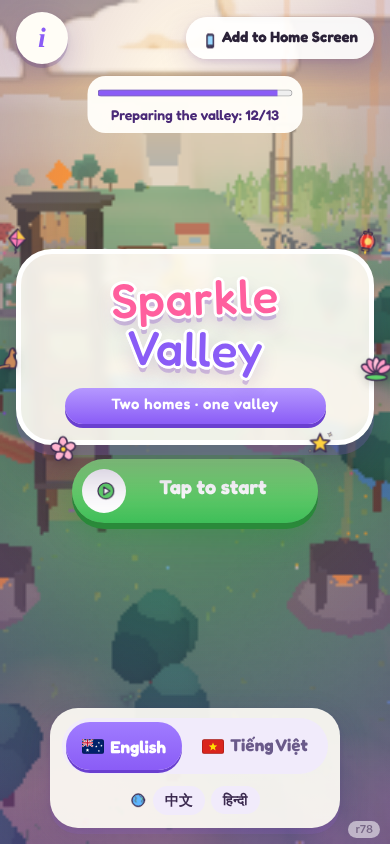
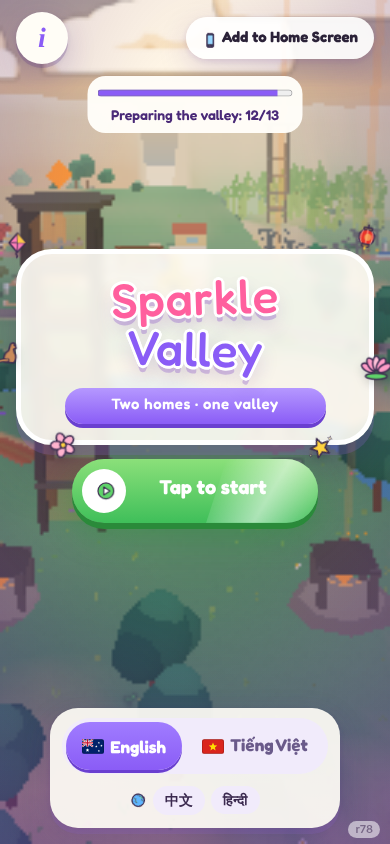
Welcome steady: the Start button shines instead of glowing (owner, 17 Oct AEDT: "Shine")
A soft band of light sweeps across the Start button every few seconds, inside its own edges, so its box never changes;
calm mode and "Reduce motion" show no shine. welcomesteady passes; after pictures retaken with the shine held halfway.

Claude-Session: https://claude.ai/code/session_01WXGnVXjDfHXQwR9QER2LaS

diff --git a/css/style.css b/css/style.css
@@ -2877,12 +2877,12 @@ body:has(.modal:not(.out), .gl, .wardrobe, .audio-tray, .dialog:not(.out), .stor
 
 /* (Welcome steady, owner 16-17 Oct AEDT: "windows, panels and the Pad must stay fixed"; the r79 sweep found the Start
    button growing and shrinking on every device) the Start button keeps one box: it no longer scales (goPulse) but
-   invites a tap with a soft glow round it, which changes no size (owner's choice assumed under the 15-minute rule:
-   "a soft glow"). Calm mode and "Reduce motion": no glow animation. */
-.sv2 .press { animation: tt-glow 2.2s ease-in-out infinite; }
-@keyframes tt-glow {
-  0%, 100% { box-shadow: 0 6px 0 #2a8a3a, 0 14px 30px rgba(40, 140, 60, .4), 0 0 0 0 rgba(139, 224, 122, 0); }
-  50% { box-shadow: 0 6px 0 #2a8a3a, 0 14px 30px rgba(40, 140, 60, .4), 0 0 26px 8px rgba(139, 224, 122, .75); }
-}
-body.calm .sv2 .press { animation: none; }
-@media (prefers-reduced-motion: reduce) { .sv2 .press { animation: none; } }
+   invites a tap with a shine, a soft band of light that sweeps across it every few seconds inside its own edges, so no
+   size changes (owner, 17 Oct AEDT: "Shine"). Calm mode and "Reduce motion": no shine. */
+.sv2 .press { animation: none; position: relative; overflow: hidden; isolation: isolate; }
+.sv2 .press::after { content: ''; position: absolute; top: 0; bottom: 0; left: 0; width: 45%; pointer-events: none; z-index: 1;
+  background: linear-gradient(105deg, rgba(255, 255, 255, 0) 0%, rgba(255, 255, 255, .55) 50%, rgba(255, 255, 255, 0) 100%);
+  transform: translateX(-120%) skewX(-18deg); animation: tt-shine 3.2s ease-in-out infinite; }
+@keyframes tt-shine { 0%, 45% { transform: translateX(-120%) skewX(-18deg); } 85%, 100% { transform: translateX(260%) skewX(-18deg); } }
+body.calm .sv2 .press::after { animation: none; display: none; }
+@media (prefers-reduced-motion: reduce) { .sv2 .press::after { animation: none; display: none; } }
